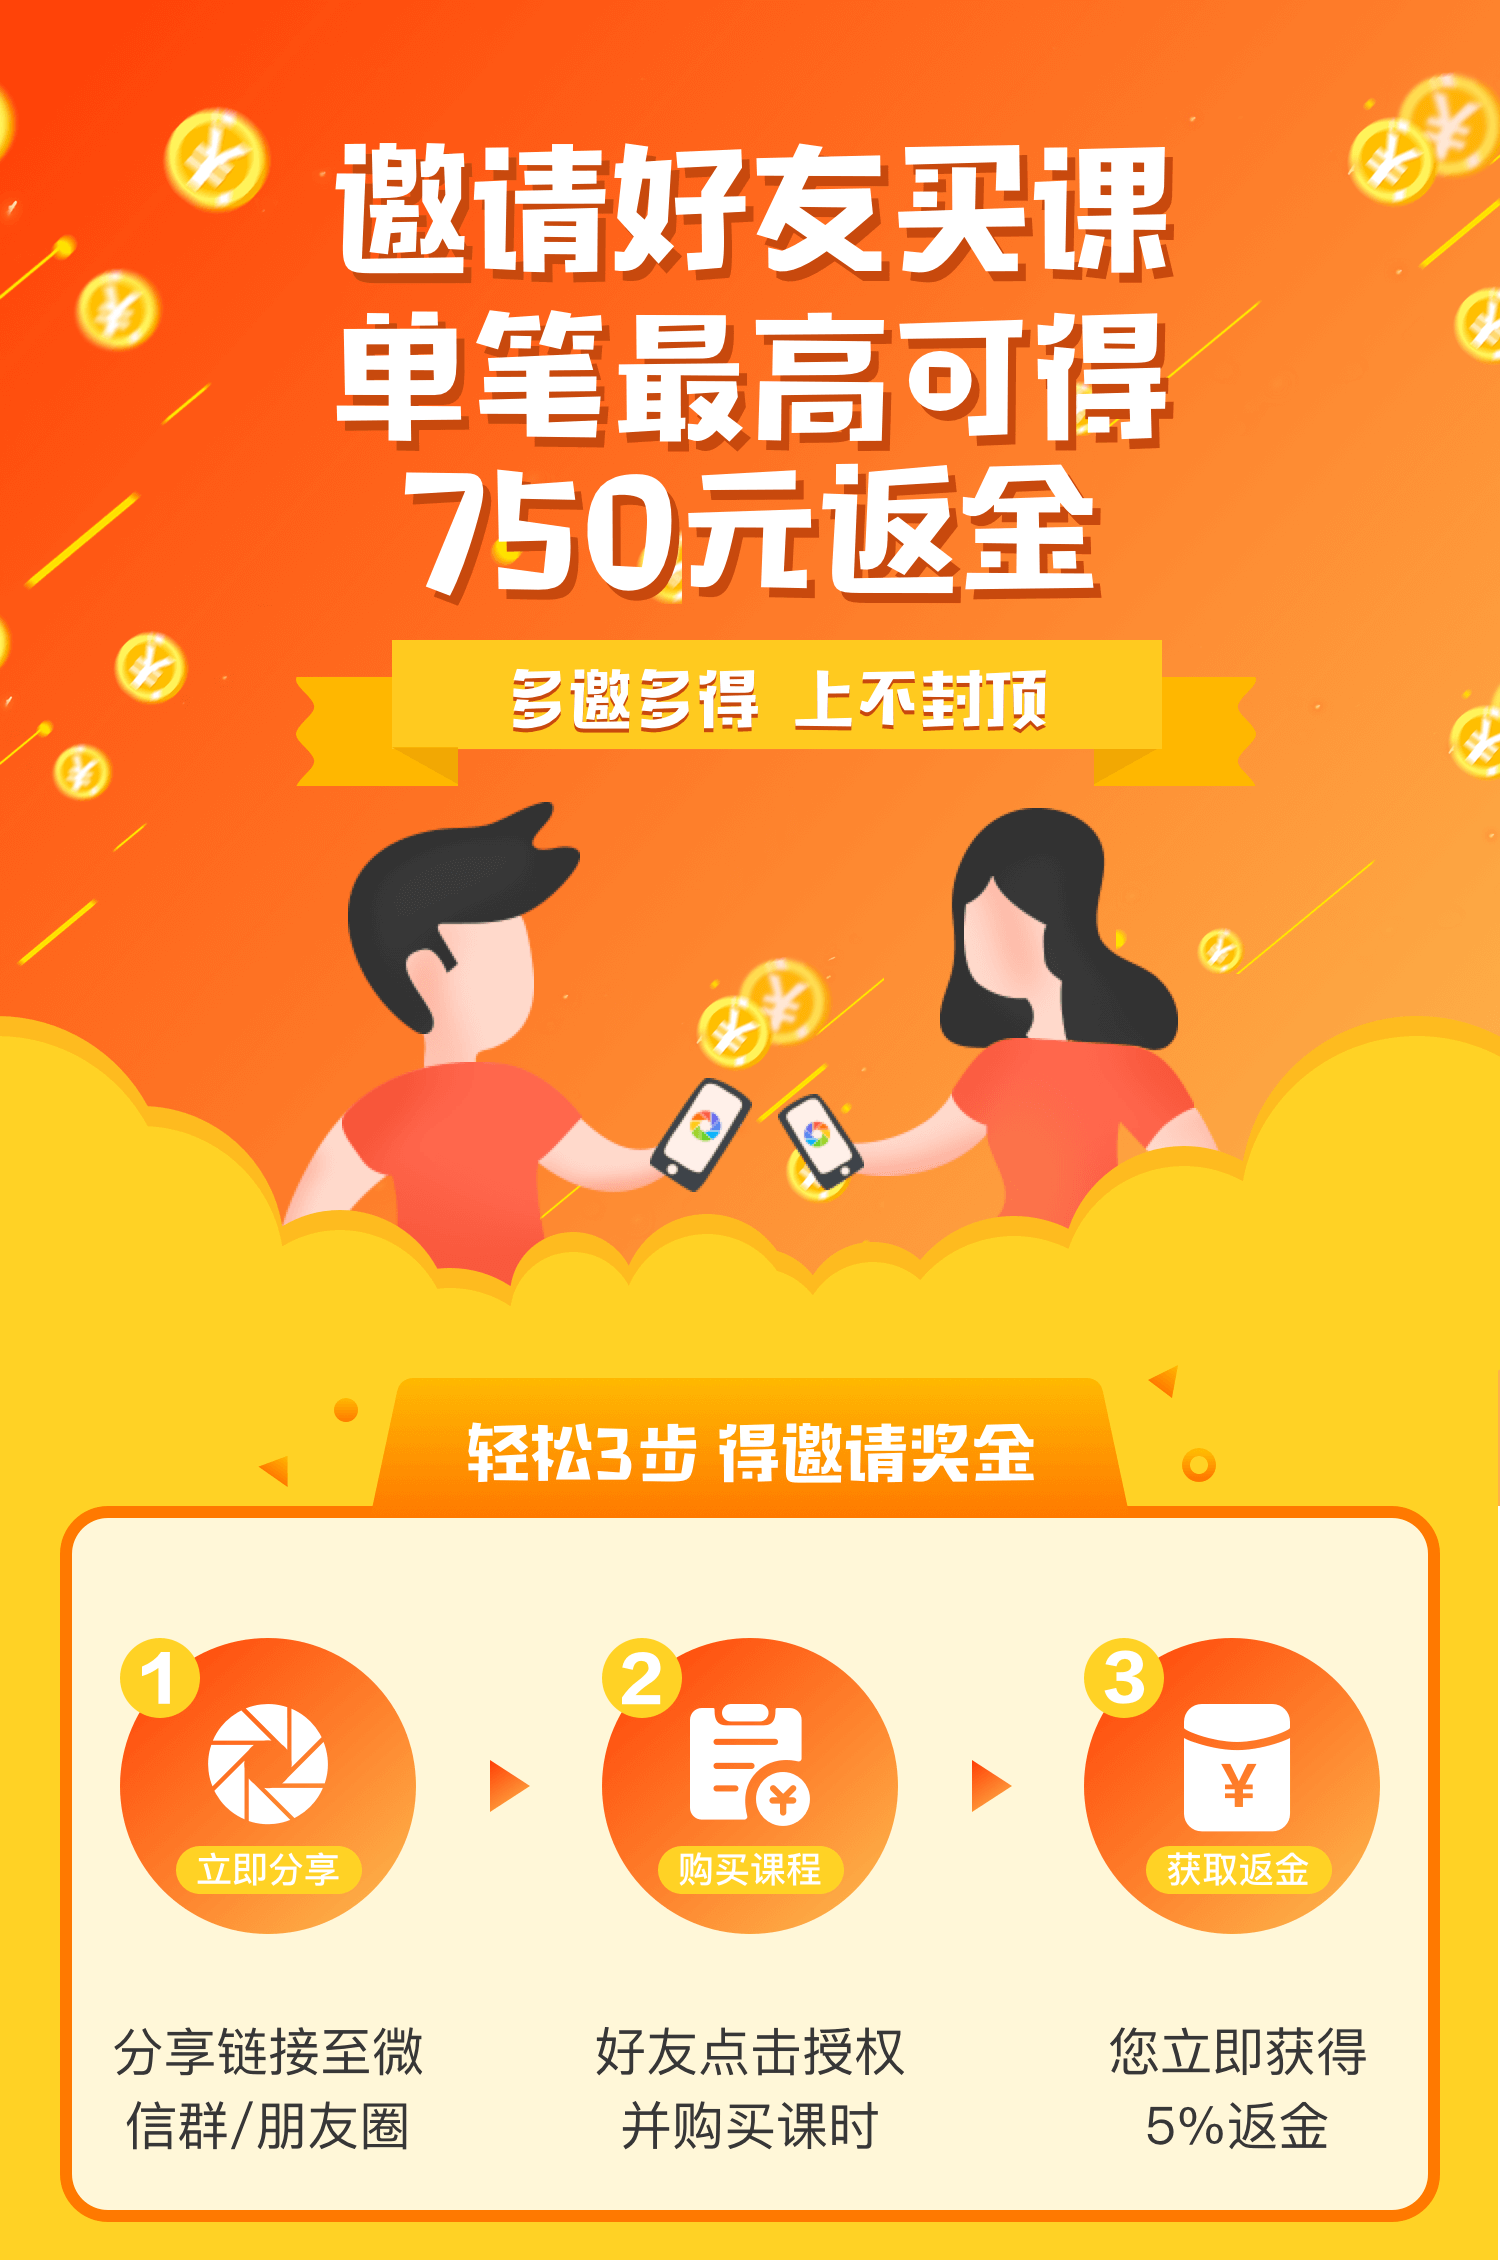
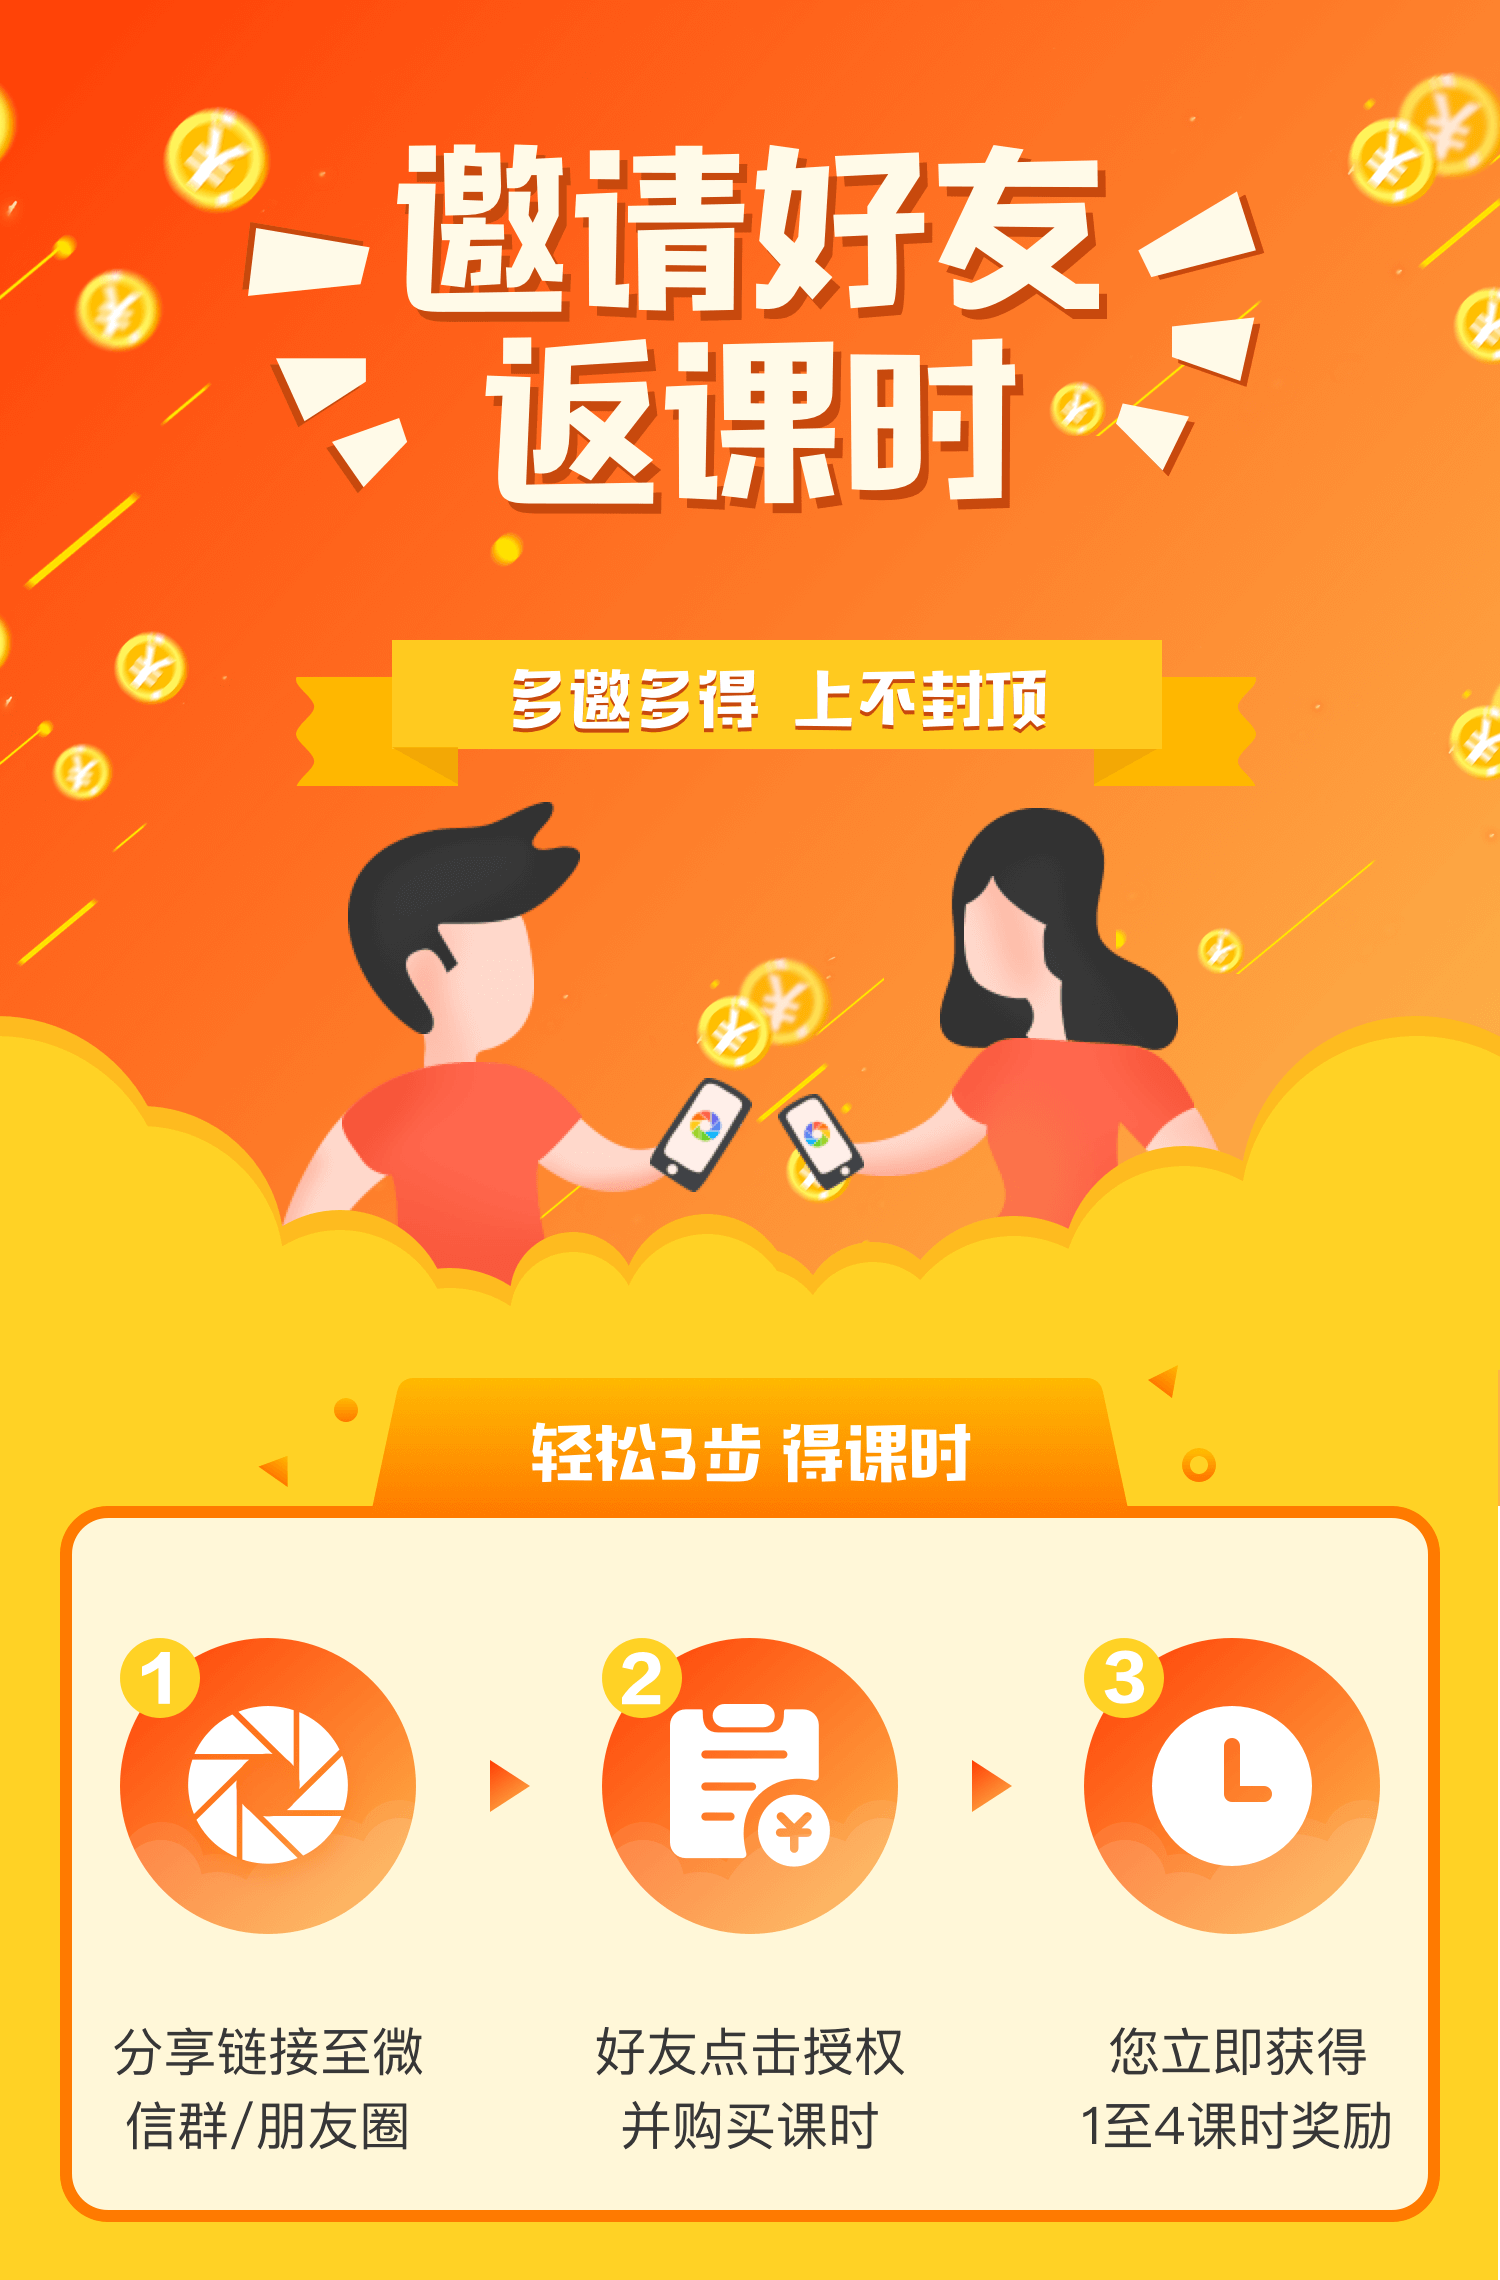
fix bug

diff --git a/pages/coachCourse/coachCourse.js b/pages/coachCourse/coachCourse.js
@@ -8,14 +8,28 @@ Page({
     female: '../../assets/female.svg',
     male: '../../assets/male.svg',
     id: '',
-    userId: ''
+    userId: '',
+    arrivedObj: {}
   },
   onLoad(options) {
+    // arrivedStorage: [{
+    //   courseId: 1,
+    //   arrivedList: [1, 2, 3]
+    // }]
     const id = options.id
     const userId = options.userId
+    const arrivedStorage = wx.getStorageSync('arrivedStorage') || [{
+      courseId: id,
+      arrivedList: [],
+    }]
+    const arrivedObj = {
+      courseId: id,
+      arrivedList: arrivedStorage.filter(item => item.courseId == id)[0]['arrivedList'],
+    }
     this.setData({
       id,
       userId,
+      arrivedObj,
     });
     if (!this.data.token) {
       this.setData({
@@ -25,6 +39,22 @@ Page({
   },
   onShow() {
     this.getCourse();
+  },
+  switchChange(e) {
+    const index = e.currentTarget.dataset.index
+    const list = this.data.course.list
+    const key = 'course.list[' + index + ']isArrived'
+    this.setData({
+      [key]: e.detail.value
+    })
+    const arrivedList = list.filter(item => item.isArrived).map(item => item.id)
+    const arrivedStorage = (wx.getStorageSync('arrivedStorage') || [{courseId: this.data.id,arrivedList: []}]).map(item => {
+      if(item.courseId == this.data.id) {
+        item.arrivedList = arrivedList
+      }
+      return item;
+    })
+    wx.setStorageSync('arrivedStorage', arrivedStorage)
   },
   /**
    * 获取课程信息
@@ -49,6 +79,14 @@ Page({
           const result = res.data.datas;
           result.time = formatTime(result.beginTime, 'Y年M月D日 h:m')+'/'+formatTime(result.endTime, 'h:m')
           result.richTextArray = JSON.parse(result.descJson) || [];
+          result.list.map(item => {
+            console.log(this.data.arrivedObj.arrivedList, this.data.arrivedObj.arrivedList.indexOf(item.id), item.id);
+            if (this.data.arrivedObj.arrivedList.indexOf(item.id) > -1) {
+              item.isArrived = true
+            } else {
+              item.isArrived = false
+            }
+          })
           this.setData({
             course: result,
           });

diff --git a/pages/invitation/invitation.js b/pages/invitation/invitation.js
@@ -52,17 +52,17 @@ Page({
           const type = that.data.userInfo.type;
           result.map(item => {
             item.timeStr = formatTime(item.time, 'Y.M.D')
-            item.object.money = type === 2 ? item.object.shareCoachMoney : item.object.shareUserMoney
+            item.object.hour = type === 2 ? item.object.shareCoachMoney / 100 : item.object.shareUserMoney / 100
           });
-          let amount = 0;
+          let count = 0;
           if(result.length) {
-            amount = result.reduce((accumulator, currentValue, currentIndex, array) => {
-              return accumulator.momey || 0 + currentValue.momey || 0;
+            count = result.reduce((accumulator, currentValue, currentIndex, array) => {
+              return accumulator.hour || 0 + currentValue.hour || 0;
             });
           }
           that.setData({
             shareList: result,
-            amount,
+            count,
           })
           wx.hideLoading();
         }

diff --git a/pages/index/index.js b/pages/index/index.js
@@ -539,6 +539,11 @@ Page({
       url: '/pages/gym/gym?id='+id,
     });
   },
+  routeToShare: () => {
+    wx.navigateTo({
+      url: '/pages/invitation/invitation?userId='+this.data.userInfo.id,
+    });
+  },
   onShareAppMessage: function (res) {
     if (res.from === 'button') {
       // 来自页面内转发按钮
